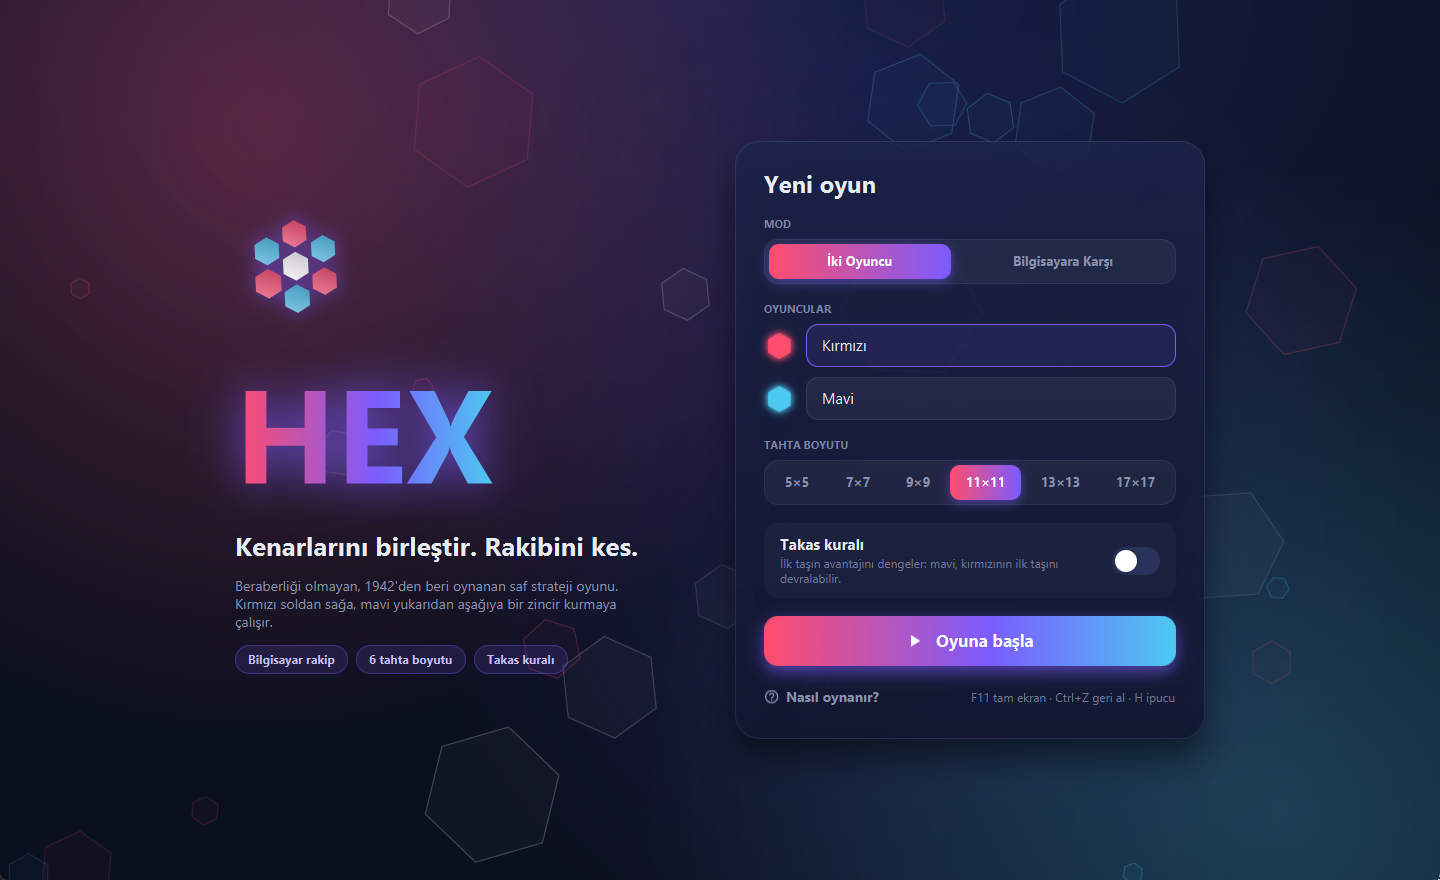
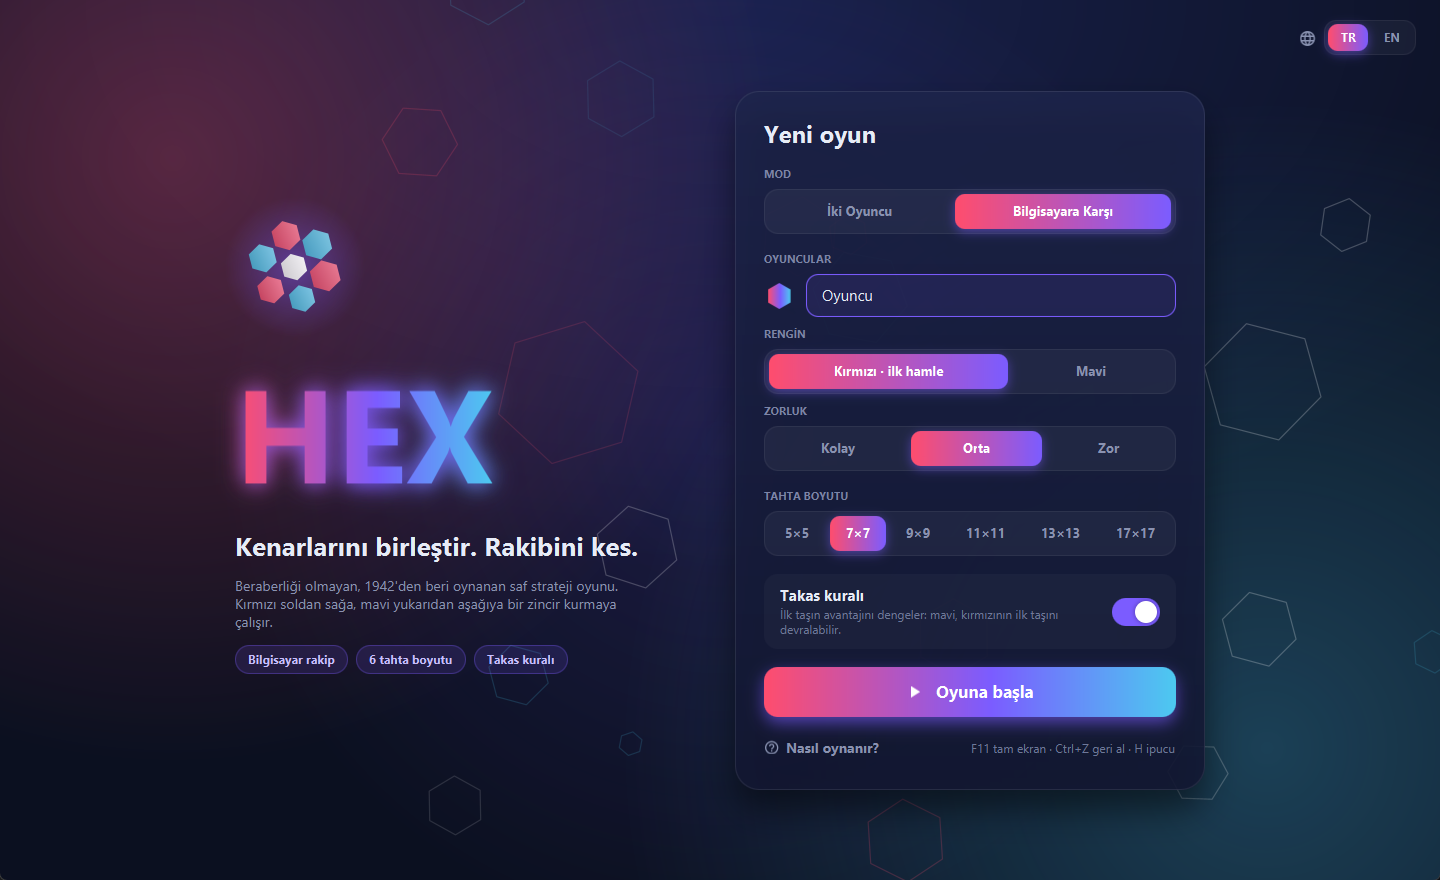
Rewrite README and add an English version
Explain how the swap rule mirrors the stone, document HexBot's
evaluation, packaging, CI and how to add a language, and refresh the
screenshots with the language switch.

diff --git a/README.md b/README.md
@@ -4,56 +4,68 @@
 
 **Kenarlarını birleştir. Rakibini kes.**
 
-JavaFX ile yazılmış, modern arayüzlü ve yapay zekâ rakipli bir Hex strateji oyunu.
+JavaFX ile yazılmış, neon arayüzlü, yapay zekâ rakipli ve iki dilli bir Hex strateji oyunu.
 
+[![CI](https://github.com/AykanYilmz/HexGame/actions/workflows/ci.yml/badge.svg)](https://github.com/AykanYilmz/HexGame/actions/workflows/ci.yml)
 ![Java](https://img.shields.io/badge/Java-21-ED8B00?logo=openjdk&logoColor=white)
 ![JavaFX](https://img.shields.io/badge/JavaFX-21-4CC9F0)
 ![Maven](https://img.shields.io/badge/Maven-wrapper-C71A36?logo=apachemaven&logoColor=white)
-![Tests](https://img.shields.io/badge/tests-17%20passing-7B5CFF)
+![Dil](https://img.shields.io/badge/arayüz-TR%20%7C%20EN-7B5CFF)
 
 <img src="docs/screenshots/menu.png" alt="Ana menü" width="860">
+
+[İndir](#-kurulum) · [Nasıl oynanır](#-nasıl-oynanır) · [Özellikler](#-özellikler) · [HexBot](#-hexbot-nasıl-düşünüyor) · [Geliştirme](#-geliştirme) · [🇬🇧 English](README.en.md)
 
 </div>
 
 ---
 
-## Oyun hakkında
+## 🎯 Nasıl oynanır?
 
-Hex, 1942'de Piet Hein'ın, 1948'de de John Nash'in birbirinden bağımsız olarak icat ettiği iki kişilik bir bağlantı oyunudur. Kuralları bir dakikada öğrenilir, ustalaşmak ise yıllar sürer.
+Hex, 1942'de Piet Hein'ın, 1948'de de John Nash'in birbirinden habersiz icat ettiği iki kişilik bir bağlantı oyunudur. Kuralları bir dakikada öğrenilir, ustalaşmak ise yıllar sürer.
 
 - Oyuncular sırayla boş bir altıgene taş koyar. **Kırmızı başlar.**
 - 🔴 **Kırmızı** sol ve sağ kenarı, 🔵 **mavi** üst ve alt kenarı birleştiren kesintisiz bir zincir kurmaya çalışır.
+- Her altıgenin altı komşusu vardır ve zincir bu komşuluklar üzerinden ilerler.
 - **Beraberlik yoktur:** Tahta dolmadan biri mutlaka kazanır.
 
-> 💡 **İpucu:** İki taşın arasında iki ortak boş komşu bırakan "köprü" hamlesi kesilemez. Oyunun en güçlü taktiğidir.
+> 💡 **Köprü:** Aralarında iki ortak boş komşu bulunan iki taş kesilemez. Rakip birine girerse diğerini doldurursun. Oyunun en güçlü taktiğidir.
 
-## Ekran görüntüleri
+### Takas kuralı (pie rule)
 
-| Bilgisayara karşı | Kazanan zincir |
+İlk hamle büyük bir avantajdır. Takas kuralı açıksa mavi, ilk hamlesinde kırmızının taşını **devralabilir**. Böylece kırmızı, rakibin almak istemeyeceği kadar ölçülü bir açılış aramak zorunda kalır.
+
+Devralınan taş, tahtanın uzun köşegenine göre **yansıtılarak** maviye geçer: kırmızının `C4`'teki taşı mavinin `D3`'teki taşı olur. Kırmızı soldan sağa, mavi yukarıdan aşağıya oynadığı için yansıtılan taş, mavi için tam olarak kırmızının açılışı kadar değerlidir. Bu, renklerin oyunculara sabit kaldığı Hex uygulamalarında kullanılan standart takas biçimidir.
+
+## 📸 Ekran görüntüleri
+
+| HexBot'a karşı | Kazanan zincir |
 | :---: | :---: |
 | <img src="docs/screenshots/vs-ai.png" alt="HexBot'a karşı oyun" width="420"> | <img src="docs/screenshots/winning-path.png" alt="Kazanan zincirin vurgulanması" width="420"> |
-| **Takas kuralı:** HexBot güçlü açılışı devralıyor | **Ana menü** |
-| <img src="docs/screenshots/swap-rule.png" alt="Takas kuralı" width="420"> | <img src="docs/screenshots/menu.png" alt="Ana menü" width="420"> |
+| **Takas kuralı:** HexBot güçlü açılışı devralıyor | **İngilizce arayüz:** dil oyun sırasında değişir |
+| <img src="docs/screenshots/swap-rule.png" alt="Takas kuralı" width="420"> | <img src="docs/screenshots/english.png" alt="İngilizce arayüz" width="420"> |
 
-## Özellikler
+## ✨ Özellikler
 
-### 🎮 Oynanış
-- **İki oyuncu** aynı bilgisayarda ya da **HexBot'a karşı** oynanabilir. Kolay, Orta ve Zor seviyeleri var.
+### Oynanış
+- **İki oyuncu** aynı bilgisayarda ya da **HexBot'a karşı**. Kolay, Orta ve Zor seviyeleri var.
 - **6 tahta boyutu:** 5×5, 7×7, 9×9, 11×11, 13×13, 17×17.
-- **Takas kuralı (pie rule):** Mavi, kırmızının ilk taşını devralabilir. HexBot da ne zaman takas yapacağına kendisi karar verir.
-- **Geri alma, ipucu ve yeniden başlatma.**
+- **Takas kuralı:** HexBot ne zaman takas yapacağına kendisi karar verir. Kolay seviye bu kararda sık yanılır, Zor hiç yanılmaz.
+- **İpucu:** HexBot'un önerdiği hücre altın bir halkayla gösterilir. Takas kuralını bilir: devralmaya değer bir açılışta takas önerir.
+- **Geri alma:** Oyun bittikten sonra bile çalışır. Kaybettiğin hamleyi geri alıp başka bir yol deneyebilirsin.
 - **Rövanş:** Renkler yer değiştirir, skor oyuncuyla birlikte taşınır.
 - **Oyuncu kartları:** Her oyuncu için hamle sayısı, süre ve galibiyet.
 
-### ✨ Arayüz
+### Arayüz
 - Koyu neon tema, cam efektli kartlar ve süzülen altıgenlerden oluşan arka plan.
 - Tahta açılışta dalga halinde belirir. Taşlar "pop" efektiyle yerleşir ve komşu hücreleri hafifçe titretir.
 - Fare hangi hücrenin üzerindeyse orada sıradaki rengin önizlemesi görünür. Son hamle işaretlenir.
 - Kazanınca zincir taş taş parlar, üzerinden ışık akar ve bulanık arka planlı bir sonuç kartı açılır.
 - Tahta her pencere boyutuna ve tam ekrana ölçeklenir. Kenarlarda koordinatlar (A1, B2…) gösterilir.
-- Son kullanılan isimler, mod ve tahta boyutu bir sonraki açılışta hatırlanır.
+- **Türkçe ve İngilizce:** Sağ üstteki 🌐 **TR | EN** düğmesiyle dil, oyun sırasında bile anında değişir. İlk açılışta sistem dili seçilir.
+- Son kullanılan isimler, ayarlar ve dil bir sonraki açılışta hatırlanır.
 
-## Kısayollar
+### Kısayollar
 
 | Tuş | İşlev |
 | --- | --- |
@@ -63,9 +75,15 @@ Hex, 1942'de Piet Hein'ın, 1948'de de John Nash'in birbirinden bağımsız olar
 | `R` | Oyunu yeniden başlat |
 | `Enter` | Menüde oyunu başlat |
 
-## Kurulum ve çalıştırma
+## 📦 Kurulum
 
-Gereken tek şey **JDK 21**, örneğin [Eclipse Temurin](https://adoptium.net/). Maven kurmanıza gerek yok, proje wrapper ile gelir.
+### Hazır sürüm (Windows, Java gerekmez)
+
+[Releases](https://github.com/AykanYilmz/HexGame/releases) sayfasından en son `Hex-<sürüm>-windows.zip` dosyasını indir, bir klasöre aç ve `Hex.exe`'ye çift tıkla. Paketin içinde kendi Java çalışma ortamı vardır.
+
+### Kaynaktan
+
+Gereken tek şey **JDK 21**, örneğin [Eclipse Temurin](https://adoptium.net/). Maven kurmana gerek yok, proje wrapper ile gelir.
 
 ```bash
 git clone https://github.com/AykanYilmz/HexGame.git
@@ -75,36 +93,54 @@ cd HexGame
 mvnw.cmd javafx:run      # Windows (cmd / PowerShell)
 ```
 
-Testleri çalıştırmak için:
+> **Hibrit grafikli dizüstüler (Intel + NVIDIA/AMD):** Windows `java.exe`'yi varsayılan olarak entegre GPU'da çalıştırabilir. Tam ekranda akıcılık için *Ayarlar → Sistem → Ekran → Grafik* bölümünden `java.exe` (ya da `Hex.exe`) için **Yüksek performans** seç.
+
+## 🤖 HexBot nasıl düşünüyor?
+
+HexBot pozisyonları iki ölçüyle değerlendirir:
+
+- **En kısa mesafe (0-1 BFS):** Kenarları birleştirmek için en az kaç boş hücre daha gerektiği. Kendi taşın 0, boş hücre 1 sayılır, rakip taşı geçilemez.
+- **Two-distance:** Bir hücre kenara ancak *en iyi ikinci* komşusu kadar yakındır, çünkü rakip en iyi yolu her zaman keser. Böylece tek şeritlik yollar zayıf, köprü gibi çift seçenekli bağlantılar güçlü sayılır. Kendi taş grupları geçirgendir: bir grubun yanındaki hücre, grubun çevresindeki tüm boş hücrelere komşu kabul edilir. Queenbee gibi klasik Hex programlarının temel ölçüsüdür.
+
+Puan, rakibin değeri ile kendi değerinin farkıdır. Eşitlikte bitirme yolu çeşitliliğine ve merkeze yakınlığa bakılır.
+
+| Seviye | Değerlendirme | Arama |
+| --- | --- | --- |
+| Kolay | En kısa mesafe | Gürültülü tek hamle, ara sıra özensiz hamle |
+| Orta | Two-distance | Tüm hamleler, tek hamle derinliğinde |
+| Zor | Two-distance | En iyi adaylar için rakibin her cevabını deneyen 2 hamlelik minimax |
+
+Her seviye kazandıran hamleyi hemen oynar ve rakibin bir hamlelik kazanma tehditlerini kapatır. Hesaplama arka plan iş parçacığında yapıldığı için arayüz donmaz. 17×17 tahtada Zor seviyenin en uzun hamlesi yaklaşık 0,2 saniye sürer.
+
+Ölçümler: Orta seviye, eski en kısa mesafe tabanlı Zor seviyeyi 11×11'de 20 maçın 20'sinde yendi. Zor seviye ise Orta'yı 9×9'da 30 maçın 27'sinde yeniyor.
+
+## 🛠 Geliştirme
 
 ```bash
-./mvnw test
+./mvnw test              # 44 birim testi
+./mvnw javafx:run        # oyunu başlat
+./mvnw javafx:jlink      # target/hexgame: Java çalışma ortamı gömülü imaj (+ hexgame.zip)
 ```
 
-> **Hibrit grafikli dizüstüler (Intel + NVIDIA/AMD):** Windows `java.exe`'yi varsayılan olarak entegre GPU'da çalıştırabilir. Tam ekranda akıcılık için *Ayarlar → Sistem → Ekran → Grafik* bölümünden JDK'nın `bin\java.exe` dosyasını ekleyip **Yüksek performans** seçin.
+Windows'ta çift tıklanabilir `Hex.exe` üretmek için:
 
-## HexBot nasıl düşünüyor?
+```bash
+jpackage --type app-image --name Hex --runtime-image target/hexgame \
+  --module io.github.aykanyilmz.hexgame/io.github.aykanyilmz.hexgame.HexApp --dest target/dist
+```
 
-HexBot her pozisyonu **0-1 BFS** ile değerlendirir: iki oyuncunun da kenarlarını birleştirmek için en az kaç boş hücreye daha ihtiyacı olduğunu hesaplar. Bu hesapta kendi taşın 0, boş hücre 1 sayılır, rakip taşı ise geçilemez. Puan, rakibin mesafesi ile kendi mesafesi arasındaki farktır. Eşitlik durumunda en kısa yollar üzerindeki boş hücre sayısına ve merkeze yakınlığa bakılır.
+**CI / sürüm:** Her push ve pull request'te GitHub Actions testleri çalıştırır. `v1.2.0` gibi bir etiket push'landığında Windows paketi otomatik üretilip Releases sayfasına eklenir.
 
-| Seviye | Strateji |
-| --- | --- |
-| Kolay | Gürültülü tek hamle değerlendirmesi, ara sıra özensiz hamle |
-| Orta | Tüm hamleleri tek hamle derinliğinde değerlendirir |
-| Zor | En iyi adaylar için rakibin her cevabını deneyen 2 hamlelik minimax |
-
-Her seviye kazandıran hamleyi hemen oynar ve rakibin "bir hamlede kazanma" tehditlerini kapatır. Hesaplama arka plan iş parçacığında yapıldığı için arayüz donmaz; 17×17 tahtada bile en uzun hamle yaklaşık 0,1 saniye sürer.
-
-## Proje yapısı
+### Proje yapısı
 
 ```
-src/main/java/org/example/hexgame/
+src/main/java/io/github/aykanyilmz/hexgame/
 ├── HexApp.java              Uygulama girişi ve ekran geçişleri
 ├── model/                   Oyun mantığı (arayüzden bağımsız)
 │   ├── Board.java           Tahta, hamle geçmişi, takas, geri alma, kazanan yol (BFS)
 │   ├── GameConfig.java      Maç ayarları
-│   ├── Player.java · Difficulty.java
-│   └── Settings.java        Ayarların java.util.prefs ile saklanması
+│   ├── Player · Difficulty · Language
+│   └── Settings.java        Ayarların ve dilin java.util.prefs ile saklanması
 ├── ai/
 │   └── HexAI.java           HexBot
 └── ui/
@@ -112,11 +148,22 @@ src/main/java/org/example/hexgame/
     ├── GameView.java        Oyun akışı, araç çubuğu, sonuç kartı
     ├── BoardView.java       Altıgen tahta ve taş animasyonları
     ├── PlayerCard.java      Oyuncu kartları
+    ├── I18n.java            Arayüz metinleri ve canlı dil değişimi
+    ├── LanguageSwitch.java  TR | EN düğmesi
     ├── Segmented · ToggleSwitch · Modal · AnimatedBackground
     └── Theme · Fx · Icons   Renkler, animasyon yardımcıları, vektör ikonlar
-src/main/resources/org/example/hexgame/styles.css
-src/test/java/…              Tahta kuralları ve HexBot için birim testleri
+src/main/resources/io/github/aykanyilmz/hexgame/
+├── styles.css
+└── ui/messages_tr.properties · messages_en.properties
+src/test/java/…              Tahta, HexBot, ayarlar ve çeviri testleri
 ```
+
+### Yeni bir dil eklemek
+
+1. `ui/messages_en.properties` dosyasını `messages_<kod>.properties` adıyla kopyalayıp çevir. `{0}` gibi yer tutucuları koru.
+2. [`Language.java`](src/main/java/io/github/aykanyilmz/hexgame/model/Language.java)'ya yeni bir sabit ekle, örneğin `DE("de")`.
+
+Dil düğmesi yeni dili kendiliğinden gösterir. `I18nTest`, bütün dillerde aynı anahtarların ve yer tutucuların bulunduğunu denetler; çevrilmemiş bir metin kalırsa test başarısız olur.
 
 ### Performans notları
 - Taşların, tahta kenarlarının ve başlıkların parlama efektleri bir kez çizilip önbellekten kullanılır.

diff --git a/README.en.md b/README.en.md
@@ -1,0 +1,102 @@
+<div align="center">
+
+# ⬢ HEX
+
+**Connect your edges. Cut your rival off.**
+
+A Hex strategy game built with JavaFX, featuring a neon interface, a computer opponent and a bilingual UI.
+
+[![CI](https://github.com/AykanYilmz/HexGame/actions/workflows/ci.yml/badge.svg)](https://github.com/AykanYilmz/HexGame/actions/workflows/ci.yml)
+![Java](https://img.shields.io/badge/Java-21-ED8B00?logo=openjdk&logoColor=white)
+![JavaFX](https://img.shields.io/badge/JavaFX-21-4CC9F0)
+![UI](https://img.shields.io/badge/UI-TR%20%7C%20EN-7B5CFF)
+
+<img src="docs/screenshots/english.png" alt="Game in English" width="860">
+
+[Download](#-install) · [How to play](#-how-to-play) · [Features](#-features) · [HexBot](#-how-hexbot-thinks) · [Development](#-development) · [🇹🇷 Türkçe](README.md)
+
+</div>
+
+---
+
+## 🎯 How to play
+
+Hex is a two-player connection game invented independently by Piet Hein in 1942 and John Nash in 1948. You can learn the rules in a minute and spend years mastering it.
+
+- Players take turns placing a stone on any empty hexagon. **Red goes first.**
+- 🔴 **Red** tries to link the left and right edges with an unbroken chain, 🔵 **blue** the top and bottom edges.
+- Every hexagon has six neighbours, and chains run through them.
+- **There are no draws:** someone always wins before the board fills up.
+
+> 💡 **Bridge:** two stones that share two empty neighbours cannot be cut. If your rival takes one, you take the other. It is the strongest tactic in the game.
+
+### Swap rule (pie rule)
+
+Moving first is a big advantage. With the swap rule on, blue may **take over** red's first stone on its first move, so red has to open with a move modest enough that blue won't want it.
+
+The stone is **mirrored** across the board's long diagonal as it changes hands: red's stone on `C4` becomes blue's stone on `D3`. Since red plays left to right and blue top to bottom, the mirrored stone is worth exactly as much to blue as the opening was to red. This is the standard way to apply the swap when each player keeps their colour.
+
+## ✨ Features
+
+- **Two players** on one computer, or **versus HexBot** on Easy, Medium or Hard.
+- **Six board sizes:** 5×5, 7×7, 9×9, 11×11, 13×13 and 17×17.
+- **Swap rule** that HexBot uses on its own. Easy often gets the decision wrong, Hard never does.
+- **Hints** that know the swap rule and suggest taking over a strong opening.
+- **Undo**, even after the game has ended, so you can take back a losing move and try another line.
+- **Rematch** with colours swapped; the score follows the players.
+- Neon theme, animated stones, a glowing winning chain, and a board that scales to any window or full screen.
+- **Turkish and English:** the 🌐 **TR | EN** switch in the top-right corner changes the language instantly, even mid-game. The system language is used on first launch.
+
+| Key | Action |
+| --- | --- |
+| `F11` | Toggle full screen (`Esc` to leave) |
+| `Ctrl + Z` | Undo |
+| `H` | Show a hint |
+| `R` | Restart the game |
+| `Enter` | Start a game from the menu |
+
+## 📦 Install
+
+**Ready-made build (Windows, no Java needed):** download the latest `Hex-<version>-windows.zip` from [Releases](https://github.com/AykanYilmz/HexGame/releases), unzip it and run `Hex.exe`. The package ships its own Java runtime.
+
+**From source:** you only need **JDK 21**, for example [Eclipse Temurin](https://adoptium.net/). Maven comes with the project as a wrapper.
+
+```bash
+git clone https://github.com/AykanYilmz/HexGame.git
+cd HexGame
+
+./mvnw javafx:run        # macOS / Linux / Git Bash
+mvnw.cmd javafx:run      # Windows (cmd / PowerShell)
+```
+
+## 🤖 How HexBot thinks
+
+HexBot scores positions with two metrics:
+
+- **Shortest distance (0-1 BFS):** how many more empty cells a player needs to link its edges. Own stones cost 0, empty cells 1, and enemy stones are walls.
+- **Two-distance:** a cell is only as close to an edge as its *second best* neighbour, because the opponent will always cut the best one. Single-file routes therefore count as weak, and double routes such as bridges as strong. Own groups are transparent: a cell next to a group neighbours every empty cell around it. This is the classic evaluation used by Hex programs such as Queenbee.
+
+| Level | Evaluation | Search |
+| --- | --- | --- |
+| Easy | Shortest distance | Noisy one-ply, with the occasional sloppy move |
+| Medium | Two-distance | Every move, one ply deep |
+| Hard | Two-distance | Two-ply minimax over the best candidates |
+
+Every level plays a winning move at once and blocks one-move threats. The search runs on a background thread, so the UI never freezes. On a 17×17 board, Hard's slowest move takes about 0.2 seconds.
+
+## 🛠 Development
+
+```bash
+./mvnw test              # 44 unit tests
+./mvnw javafx:jlink      # target/hexgame: image with an embedded Java runtime
+```
+
+GitHub Actions runs the tests on every push and pull request. Pushing a tag such as `v1.2.0` builds the Windows package and attaches it to a release.
+
+**Adding a language:** copy `src/main/resources/io/github/aykanyilmz/hexgame/ui/messages_en.properties` to `messages_<code>.properties` and translate it, keeping placeholders such as `{0}`. Then add a constant such as `DE("de")` to [`Language.java`](src/main/java/io/github/aykanyilmz/hexgame/model/Language.java). The language switch picks it up automatically, and `I18nTest` fails if any key or placeholder is missing.
+
+---
+
+<div align="center">
+Arif Aykan Yılmaz
+</div>
